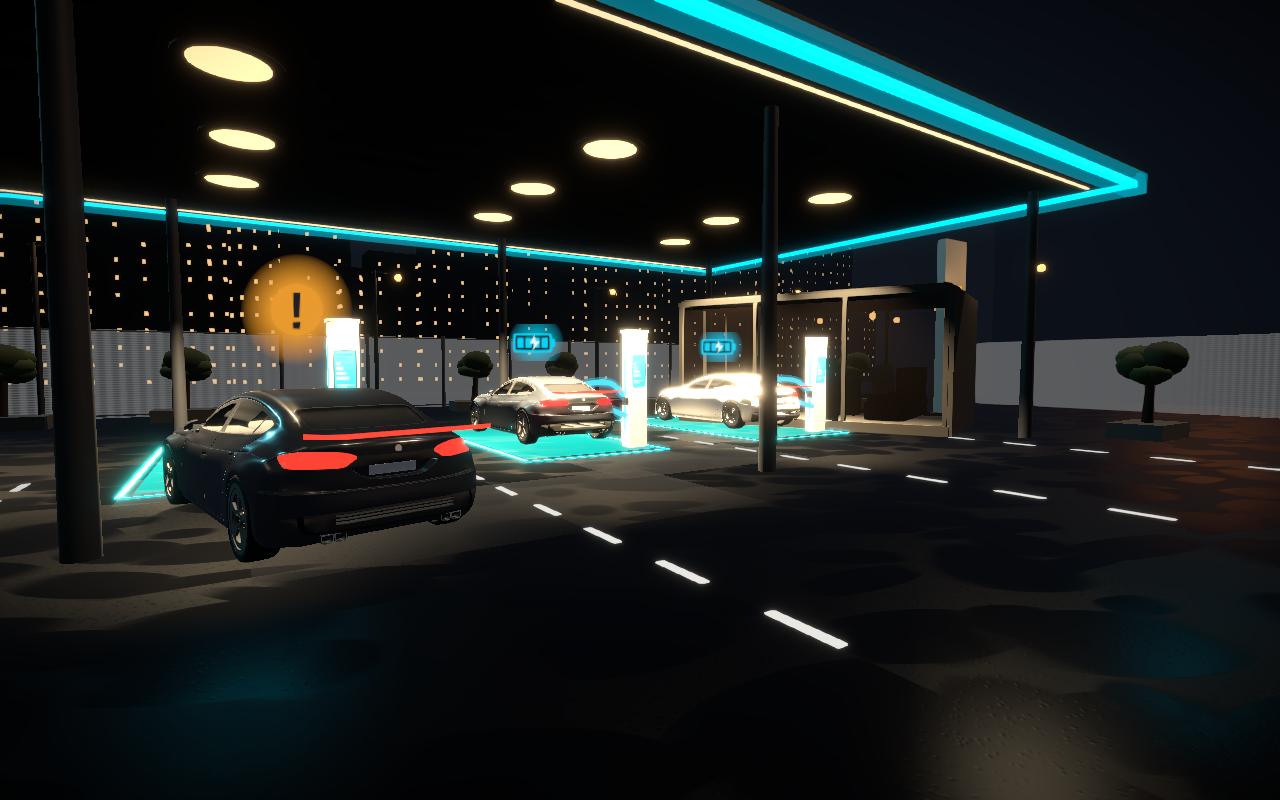
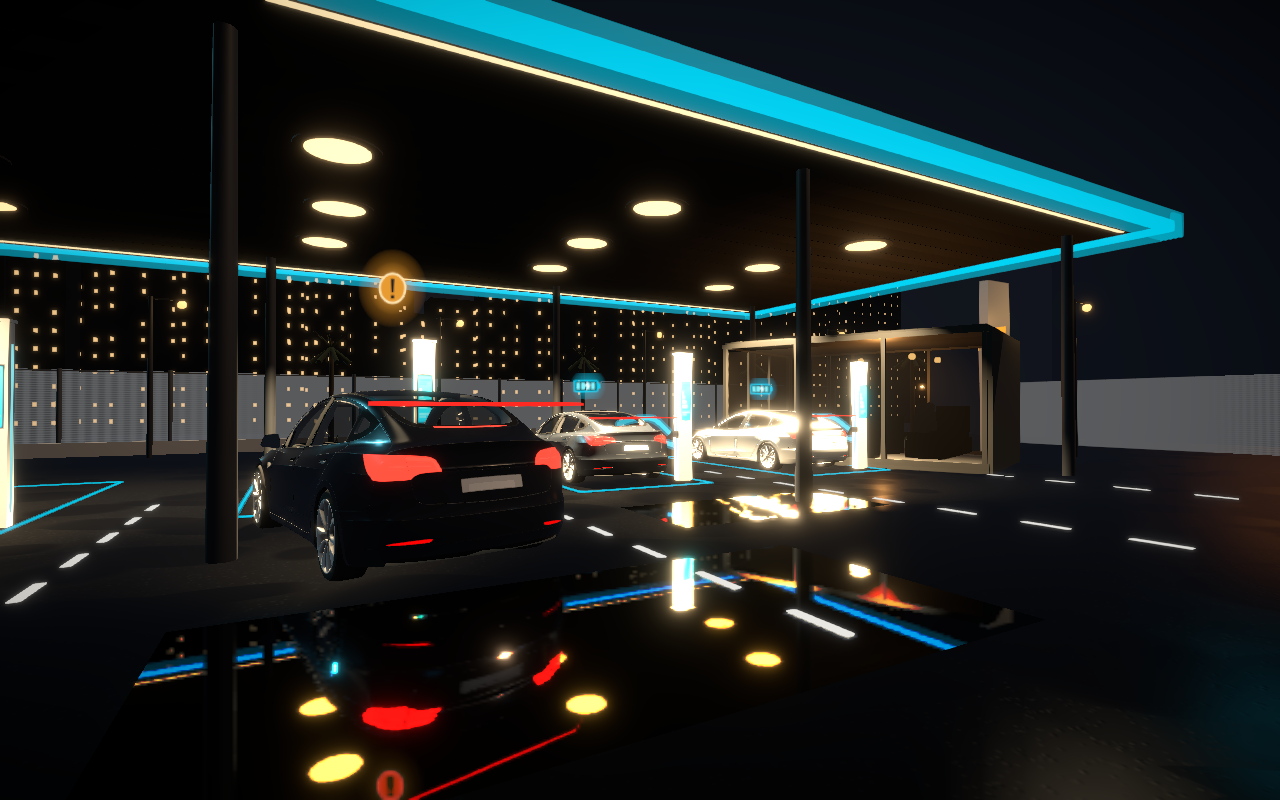
feat: recapture stills and wet the full asphalt sheet
1280x800 startNight / rear-34 after Tesla hull + thin bay strips + two puddle Reflectors. Raise lot-wide clearcoat so non-puddle asphalt still reads wet.

diff --git a/src/world/station.ts b/src/world/station.ts
@@ -145,14 +145,14 @@ function makeAsphalt(root: THREE.Group): THREE.Mesh {
     new THREE.MeshPhysicalMaterial({
       color: 0x1c1e22,
       map: maps.map,
-      roughness: 0.3,
+      roughness: 0.24,
       roughnessMap: maps.rough,
-      metalness: 0.05,
+      metalness: 0.08,
       normalMap: maps.normal,
-      normalScale: new THREE.Vector2(0.2, 0.2),
-      envMapIntensity: 1.5,
-      clearcoat: 0.58,
-      clearcoatRoughness: 0.16,
+      normalScale: new THREE.Vector2(0.18, 0.18),
+      envMapIntensity: 1.75,
+      clearcoat: 0.72,
+      clearcoatRoughness: 0.1,
     }),
   );
   ground.rotation.x = -Math.PI / 2;
@@ -398,7 +398,7 @@ function addPavilion(root: THREE.Group): THREE.Box3 {
   lot.rotation.y = Math.PI / 2;
   g.add(front, rear, lot);
 
-  const warm = new THREE.MeshBasicMaterial({ color: 0xe89648 });
+  const warm = new THREE.MeshBasicMaterial({ color: 0xffb05a });
   const backLit = new THREE.Mesh(new THREE.PlaneGeometry(D - 0.3, paneH - 0.1), warm);
   backLit.position.set(-W / 2 + 0.18, H * 0.5, 0);
   backLit.rotation.y = Math.PI / 2;
@@ -426,7 +426,7 @@ function addPavilion(root: THREE.Group): THREE.Box3 {
   addPerson(g, -1.55, -0.55, 1.4, 1.56);
   addPerson(g, -1.45, 0.65, 1.7, 1.6);
   addPerson(g, 0.15, -1.2, 0.2, 1.78);
-  const spill = new THREE.PointLight(0xffb060, 18, 9, 1.6);
+  const spill = new THREE.PointLight(0xffb060, 28, 11, 1.4);
   spill.position.set(-0.4, 2.1, 0);
   g.add(spill);
 

diff --git a/src/world/cars.ts b/src/world/cars.ts
@@ -282,7 +282,7 @@ function addEvCues(root: THREE.Group): { x: number; y: number; z: number } {
       }
     });
     const xRear = box.min.x - 0.018;
-    const half = Math.min(1.12, (box.max.z - box.min.z) * 0.46);
+    const half = Math.min(1.22, (box.max.z - box.min.z) * 0.49);
     const geo = new THREE.BufferGeometry();
     const pos: number[] = [];
     const idx: number[] = [];
